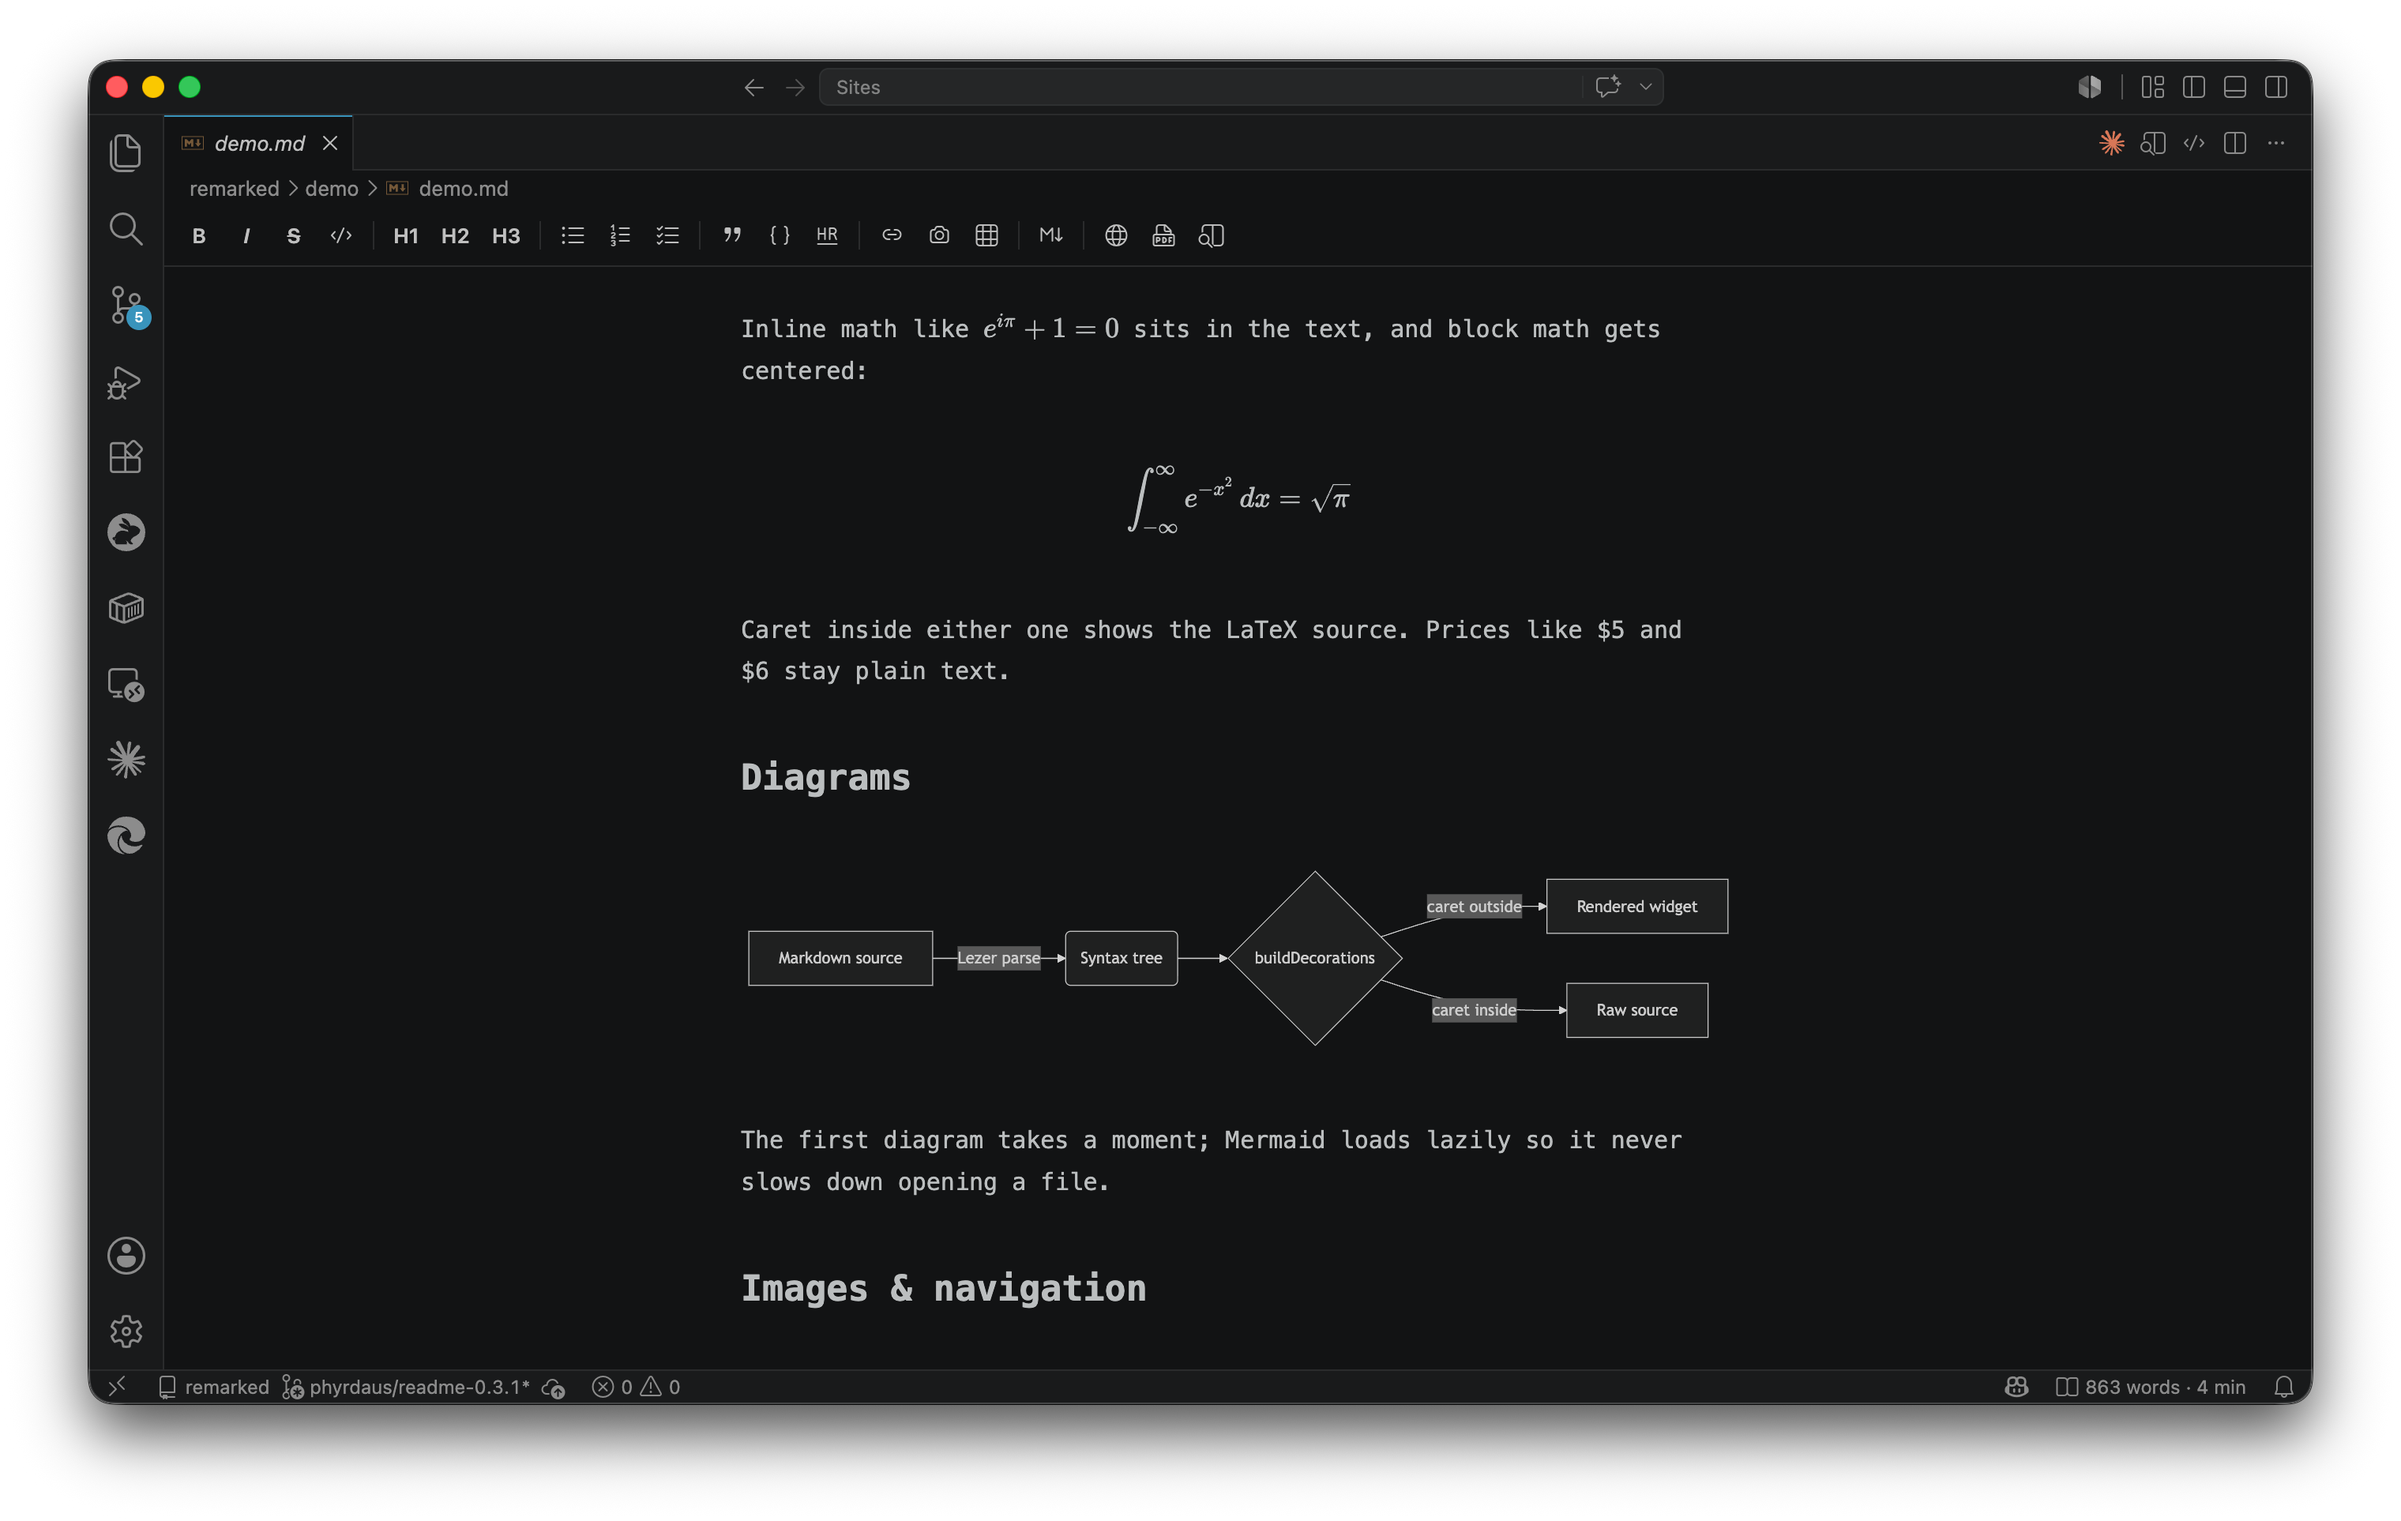
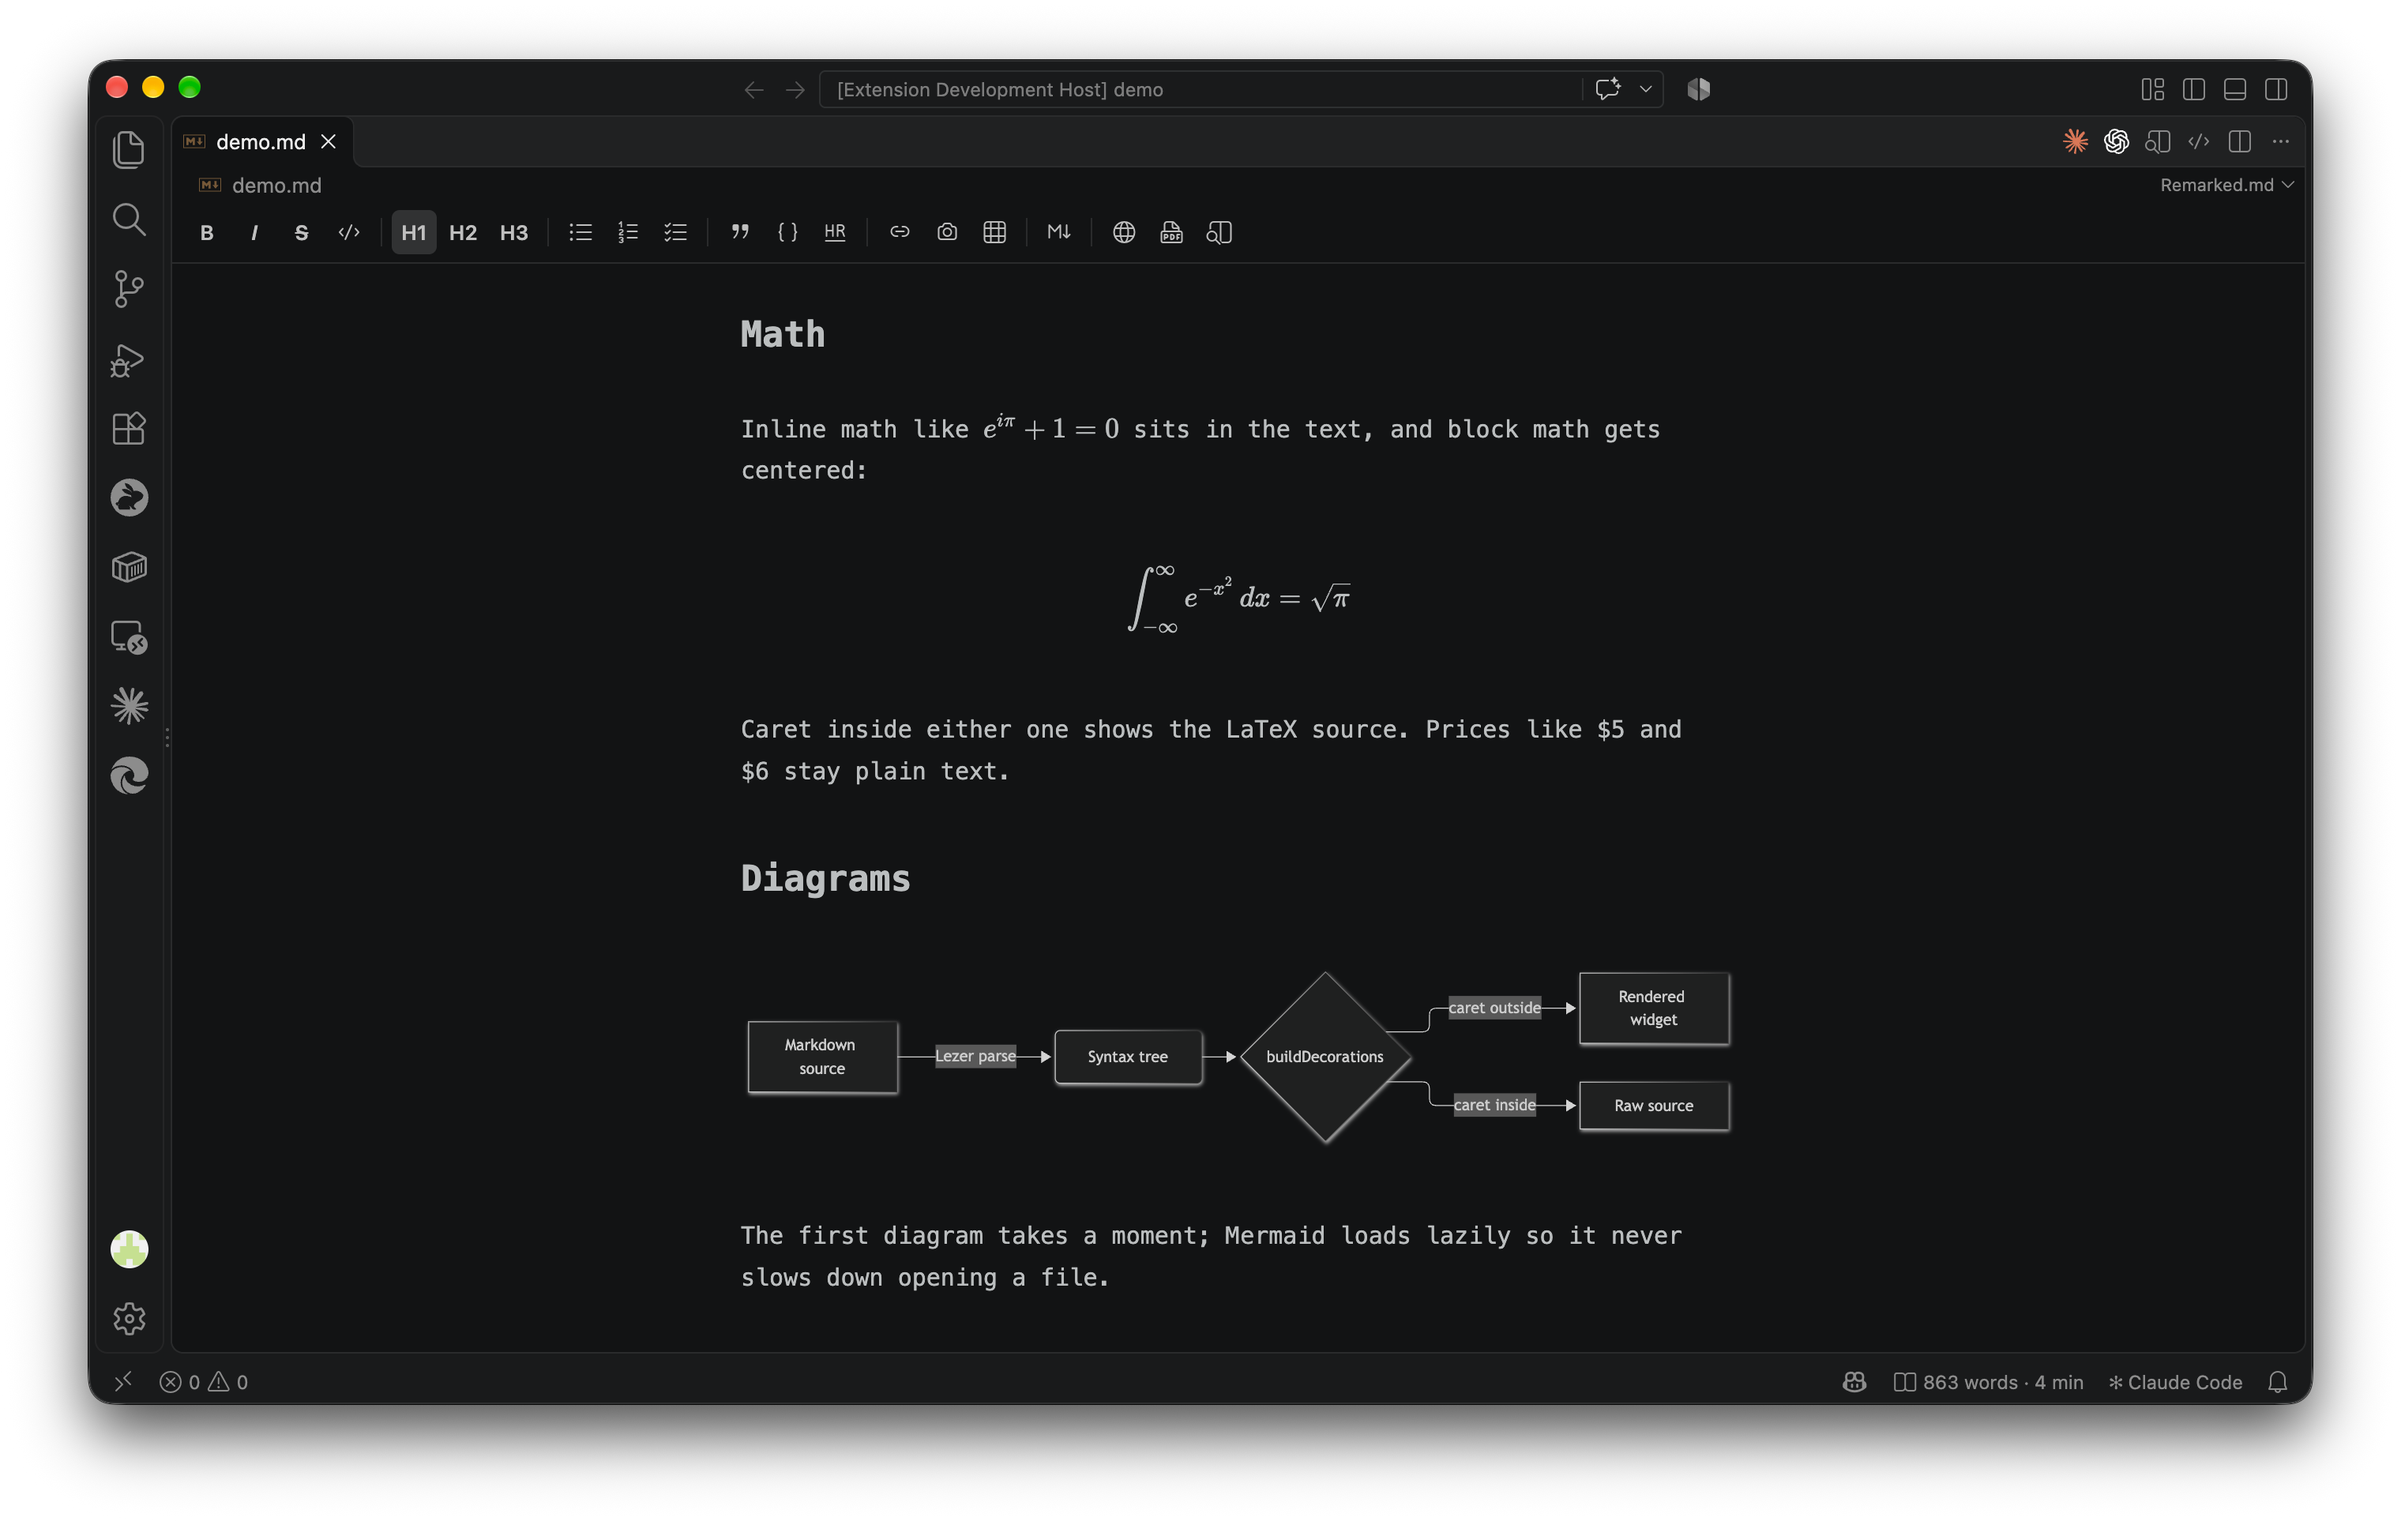
release: v0.4.0 (mermaid 12, clearer diagram errors) (#86)
- package.json / lockfile: 0.3.2 -> 0.4.0
- CHANGELOG: Unreleased -> 0.4.0 - 2026-10-24; VSIX size updated to
  2.61 MB (measured; includes mermaid's own katex 0.18 copy); adds the
  katex 0.19 entry from #77
- README screenshot 03-math-mermaid.png retaken with mermaid 12's
  ELK layout and neo look

diff --git a/CHANGELOG.md b/CHANGELOG.md
@@ -1,14 +1,17 @@
 # Changelog
 
-## Unreleased
+## 0.4.0 - 2026-10-24
 
 - **Mermaid 12.** Diagrams now use Mermaid 12's default layout (ELK) and its
   refreshed `neo` look, so existing flowcharts, state, and class diagrams will
   lay out and look different. Mermaid 12 also moves its bundled KaTeX to 0.18,
   removing the last copy of KaTeX affected by a prototype-pollution advisory
   ([GHSA-238p-pmpm-9mq7](https://github.com/advisories/GHSA-238p-pmpm-9mq7)).
-  The download grows by about 0.4 MB (2.11 → 2.54 MB) because Mermaid now
-  ships the ELK layout engine.
+  The download grows by about 0.5 MB (2.11 → 2.61 MB), mostly because Mermaid
+  now ships the ELK layout engine.
+- **KaTeX 0.19.** Math now renders with KaTeX 0.19. Nothing looks different:
+  its one breaking change affects KaTeX's `strict` mode, which Remarked doesn't
+  use. Mermaid still bundles its own KaTeX 0.18 for math inside diagrams.
 - **Fix:** a Mermaid diagram with a syntax error no longer leaves Mermaid's own
   "Syntax error in text" graphic stuck at the bottom of the editor or preview.
   The inline `⚠ mermaid:` error chip is now the only error shown.
